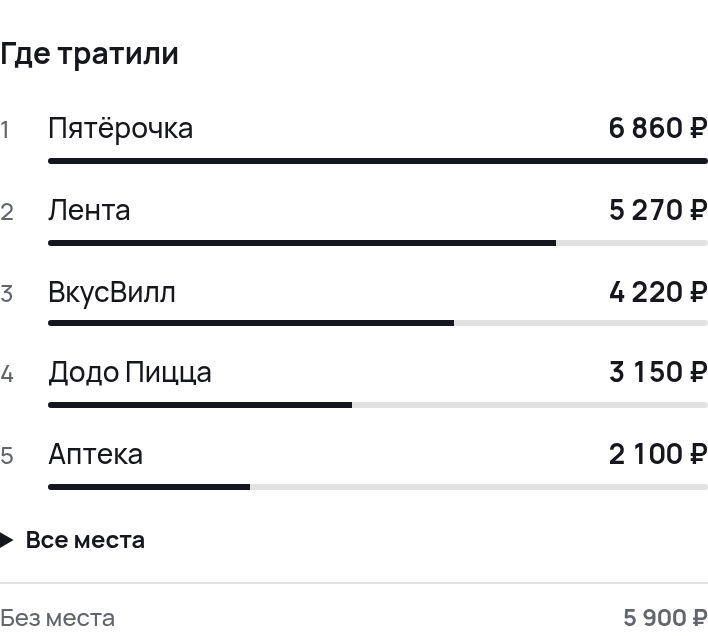
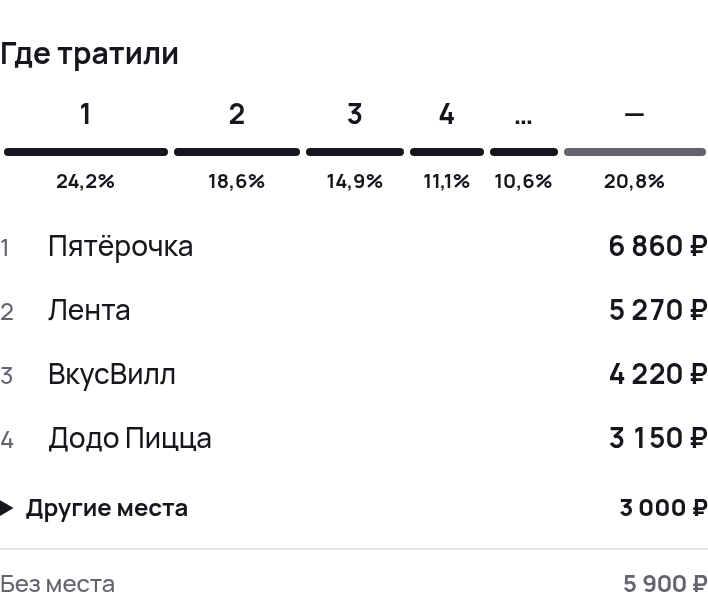
docs: show monthly spending forecast and matching shares (#267)

diff --git a/design/approved/267/screens.html b/design/approved/267/screens.html
@@ -11,38 +11,37 @@
   section{padding:16px 0;border-bottom:1px solid var(--divider)}section:last-child{border-bottom:none;padding-bottom:0}
   .pace svg{display:block;width:100%;height:auto;fill:var(--ink)}.grid,.trend{fill:none;stroke:var(--divider)}
   .pace svg text{fill:var(--muted);font-size:10px}.trend{stroke:var(--ink);stroke-width:2.5;stroke-linecap:round;stroke-linejoin:round}
-  .shares{display:flex}.share{display:flex;flex-direction:column;align-items:center;min-width:0;gap:5px}
-  .share b{font-size:clamp(8px,2.45vw,10px)}.icon{font-size:16px}
+  .estimate{display:flex;justify-content:space-between;align-items:baseline;gap:8px;margin:0 0 8px;color:var(--muted);font-size:12px}
+  .estimate b{color:var(--ink);white-space:nowrap;font-size:15px}
+  .forecast{fill:none;stroke:var(--muted);stroke-width:2;stroke-dasharray:4 4;stroke-linecap:round}
+  .cutoff{stroke:var(--divider);stroke-dasharray:2 3}.estimate-dot{fill:var(--surface);stroke:var(--muted);stroke-width:1.6}
+  .shares{display:flex;margin-bottom:10px}.share{display:flex;flex-direction:column;align-items:center;min-width:0;gap:5px}
+  .share b{font-size:clamp(8px,2.45vw,10px);white-space:nowrap}.mark{font-size:14px;font-weight:700;min-height:22px}
   .segment{display:block;width:calc(100% - 3px);height:4px;background:var(--ink);border-radius:2px}
-  .ranking{padding:0;margin:0;list-style:none}.place{padding:7px 0 6px}
-  .place-text{display:grid;grid-template-columns:17px minmax(0,1fr) auto;gap:7px;align-items:baseline}
-  .place-text b,.unassigned b{font-variant-numeric:tabular-nums;white-space:nowrap}.store{overflow:hidden;text-overflow:ellipsis;white-space:nowrap}
-  .index{font-size:12px}.bar{background:var(--divider);height:3px;margin:5px 0 0 24px;border-radius:2px;overflow:hidden}
-  .bar span{height:100%;display:block;background:var(--ink)}
-  details{margin-top:5px}summary{padding:6px 0;cursor:pointer;font-weight:700;font-size:12px}
+  .bin-unassigned .segment{background:var(--muted)}
+  .stats{padding:0;margin:0;list-style:none}.stat{padding:6px 0;display:grid;grid-template-columns:17px minmax(0,1fr) auto;gap:7px;align-items:baseline}
+  .stat b,.unassigned b{font-variant-numeric:tabular-nums;white-space:nowrap}.stat-title{overflow:hidden;text-overflow:ellipsis;white-space:nowrap}
+  .index{font-size:12px}details{margin-top:5px}summary{padding:6px 0;cursor:pointer;font-weight:700;font-size:12px}
+  summary b{float:right}
   .unassigned{display:flex;justify-content:space-between;gap:8px;margin-top:6px;padding-top:9px;border-top:1px solid var(--divider);font-size:12px}
   .empty{margin-bottom:13px;font-size:13px}.small{max-width:320px;margin-top:0}
 </style><main>
 <div class="screen" id="overview"><div class="month"><span aria-hidden="true">‹</span><h1>Ноябрь 2026</h1><span aria-hidden="true">›</span></div>
-<div class="total"><p>Расходы · 1–19 ноября</p><h2>28 400 ₽</h2></div><section class="pace"><h3>Темп расходов</h3>
-    <svg viewBox="0 0 356 132" role="img" aria-label="Расходы с 1 по 19 ноября выросли до 28 400 рублей">
-      <path d="M46 17H336 M46 61.5H336 M46 106H336" class="grid"/>
-      <text x="0" y="20">30 тыс.</text><text x="0" y="64.5">15 тыс.</text><text x="0" y="109">0 ₽</text>
-      <polyline points="46.00,103.33 62.10,100.07 78.20,99.18 94.30,96.80 110.40,89.39 126.50,87.31 142.60,83.75 158.70,83.75 174.80,80.04 190.90,74.70 207.00,73.22 223.10,48.30 239.20,47.11 255.30,44.15 271.40,37.92 287.50,35.54 303.60,29.61 319.70,24.86 335.80,21.75" class="trend"/>
-      <circle cx="335.80" cy="21.75" r="3.25"/><text x="46.00" y="127" text-anchor="start">1 ноя</text><text x="142.60" y="127" text-anchor="middle">7</text><text x="239.20" y="127" text-anchor="middle">13</text><text x="335.80" y="127" text-anchor="end">19 ноя</text>
-    </svg></section><section><h3>По категориям</h3><div class="shares"><div class="share" style="flex:12400" aria-label="Продукты, 43,7%"><span class="icon">🛒</span><span class="segment"></span><b>43,7%</b></div><div class="share" style="flex:6400" aria-label="Транспорт, 22,5%"><span class="icon">🚕</span><span class="segment"></span><b>22,5%</b></div><div class="share" style="flex:4200" aria-label="Кафе, 14,8%"><span class="icon">☕</span><span class="segment"></span><b>14,8%</b></div><div class="share" style="flex:3500" aria-label="Дом, 12,3%"><span class="icon">🏠</span><span class="segment"></span><b>12,3%</b></div><div class="share" style="flex:1900" aria-label="Прочее, 6,7%"><span class="icon">…</span><span class="segment"></span><b>6,7%</b></div></div></section><section class="places"><h3>Где тратили</h3><ol class="ranking"><li class="place">
-      <div class="place-text"><span class="index">1</span><span class="store">Пятёрочка</span><b>6 860 ₽</b></div>
-      <div class="bar" aria-hidden="true"><span style="width:100.000%"></span></div></li><li class="place">
-      <div class="place-text"><span class="index">2</span><span class="store">Лента</span><b>5 270 ₽</b></div>
-      <div class="bar" aria-hidden="true"><span style="width:76.822%"></span></div></li><li class="place">
-      <div class="place-text"><span class="index">3</span><span class="store">ВкусВилл</span><b>4 220 ₽</b></div>
-      <div class="bar" aria-hidden="true"><span style="width:61.516%"></span></div></li><li class="place">
-      <div class="place-text"><span class="index">4</span><span class="store">Додо Пицца</span><b>3 150 ₽</b></div>
-      <div class="bar" aria-hidden="true"><span style="width:45.918%"></span></div></li><li class="place">
-      <div class="place-text"><span class="index">5</span><span class="store">Аптека</span><b>2 100 ₽</b></div>
-      <div class="bar" aria-hidden="true"><span style="width:30.612%"></span></div></li></ol><details><summary>Все места</summary><ol class="ranking" start="6"><li class="place">
-      <div class="place-text"><span class="index">6</span><span class="store">Кофейня</span><b>900 ₽</b></div>
-      <div class="bar" aria-hidden="true"><span style="width:13.120%"></span></div></li></ol></details>
+<div class="total"><p>Расходы · 1–19 ноября</p><h2>28 400 ₽</h2></div><section class="pace" data-days="30" data-actual-days="19"><h3>Темп расходов</h3><div class="estimate"><span>К 30 ноя при текущем темпе</span><b>≈ 44 800 ₽</b></div>
+    <svg viewBox="0 0 356 141" role="img" aria-label="С 1 по 19 число потрачено 28 400 ₽. Прогноз на 30 число — около 44 800 ₽.">
+      <path d="M46 114H334 M46 67H334 M46 20H334" class="grid"/><text x="0" y="117">0 ₽</text><text x="0" y="70">25 тыс.</text><text x="0" y="23">50 тыс.</text><line x1="224.76" y1="60.61" x2="224.76" y2="114" class="cutoff"/>
+        <line x1="224.76" y1="60.61" x2="334.00" y2="29.70" class="forecast"/>
+        <circle cx="334.00" cy="29.70" r="3" class="estimate-dot"/>
+      <polyline points="46.00,112.31 55.93,110.24 65.86,109.68 75.79,108.17 85.72,103.47 95.66,102.16 105.59,99.90 115.52,99.90 125.45,97.55 135.38,94.17 145.31,93.23 155.24,77.43 165.17,76.68 175.10,74.80 185.03,70.85 194.97,69.35 204.90,65.59 214.83,62.58 224.76,60.61" class="trend"/>
+      <circle cx="224.76" cy="60.61" r="3.25" class="actual-dot"/><text x="46.00" y="134" text-anchor="start">1 ноя</text><text x="135.38" y="134" text-anchor="middle">10</text><text x="224.76" y="134" text-anchor="middle">19</text><text x="334.00" y="134" text-anchor="end">30 ноя</text>
+    </svg></section><section class="categories"><h3>По категориям</h3><div class="shares" aria-label="Доли расходов по категориям"><div class="share" style="flex:12400" aria-label="Продукты, 43,7%"><span class="mark">🛒</span><span class="segment"></span><b>43,7%</b></div><div class="share" style="flex:6400" aria-label="Транспорт, 22,5%"><span class="mark">🚕</span><span class="segment"></span><b>22,5%</b></div><div class="share" style="flex:4200" aria-label="Кафе, 14,8%"><span class="mark">☕</span><span class="segment"></span><b>14,8%</b></div><div class="share" style="flex:3500" aria-label="Дом, 12,3%"><span class="mark">🏠</span><span class="segment"></span><b>12,3%</b></div><div class="share" style="flex:1900" aria-label="Прочее, 6,7%"><span class="mark">…</span><span class="segment"></span><b>6,7%</b></div></div>
+      <details><summary>Все категории</summary><ul class="stats"><li class="stat"><span class="index">🛒</span><span class="stat-title">Продукты</span><b>12 400 ₽</b></li><li class="stat"><span class="index">🚕</span><span class="stat-title">Транспорт</span><b>6 400 ₽</b></li><li class="stat"><span class="index">☕</span><span class="stat-title">Кафе</span><b>4 200 ₽</b></li><li class="stat"><span class="index">🏠</span><span class="stat-title">Дом</span><b>3 500 ₽</b></li><li class="stat"><span class="index">…</span><span class="stat-title">Прочее</span><b>1 900 ₽</b></li></ul></details></section><section class="places"><h3>Где тратили</h3><div class="shares" aria-label="Доли расходов по местам"><div class="share" style="flex:6860" aria-label="Пятёрочка, 24,2%"><span class="mark">1</span><span class="segment"></span><b>24,2%</b></div><div class="share" style="flex:5270" aria-label="Лента, 18,6%"><span class="mark">2</span><span class="segment"></span><b>18,6%</b></div><div class="share" style="flex:4220" aria-label="ВкусВилл, 14,9%"><span class="mark">3</span><span class="segment"></span><b>14,9%</b></div><div class="share" style="flex:3150" aria-label="Додо Пицца, 11,1%"><span class="mark">4</span><span class="segment"></span><b>11,1%</b></div><div class="share" style="flex:3000" aria-label="Другие места, 10,6%"><span class="mark">…</span><span class="segment"></span><b>10,6%</b></div><div class="share bin-unassigned" style="flex:5900" aria-label="Без места, 20,8%"><span class="mark">—</span><span class="segment"></span><b>20,8%</b></div></div><ol class="stats ranking"><li class="stat"><span class="index">1</span><span class="stat-title">Пятёрочка</span><b>6 860 ₽</b></li><li class="stat"><span class="index">2</span><span class="stat-title">Лента</span><b>5 270 ₽</b></li><li class="stat"><span class="index">3</span><span class="stat-title">ВкусВилл</span><b>4 220 ₽</b></li><li class="stat"><span class="index">4</span><span class="stat-title">Додо Пицца</span><b>3 150 ₽</b></li></ol><details><summary><span>Другие места</span><b>3 000 ₽</b></summary><ol class="stats ranking" start="5"><li class="stat"><span class="index">5</span><span class="stat-title">Аптека</span><b>2 100 ₽</b></li><li class="stat"><span class="index">6</span><span class="stat-title">Кофейня</span><b>900 ₽</b></li></ol></details>
       <div class="unassigned"><span>Без места</span><b>5 900 ₽</b></div></section></div>
-<div class="screen small" id="missing"><section class="places"><h3>Где тратили</h3><p class="empty">Укажи место в расходе, чтобы увидеть его здесь.</p>
-      <div class="unassigned"><span>Без места</span><b>28 400 ₽</b></div></section></div></main></html>
+<div class="screen small" id="missing"><section class="places"><h3>Где тратили</h3><div class="shares" aria-label="Доли расходов по местам"><div class="share bin-unassigned" style="flex:28400" aria-label="Без места, 100,0%"><span class="mark">—</span><span class="segment"></span><b>100,0%</b></div></div><p class="empty">Укажи место в расходе, чтобы увидеть его здесь.</p>
+      <div class="unassigned"><span>Без места</span><b>28 400 ₽</b></div></section></div>
+<div class="screen small" id="completed"><section class="pace" data-days="31" data-actual-days="31"><h3>Темп расходов</h3>
+    <svg viewBox="0 0 356 141" role="img" aria-label="С 1 по 31 число потрачено 36 200 ₽.">
+      <path d="M46 114H334 M46 67H334 M46 20H334" class="grid"/><text x="0" y="117">0 ₽</text><text x="0" y="70">20 тыс.</text><text x="0" y="23">40 тыс.</text>
+      <polyline points="46.00,111.89 55.60,109.30 65.20,108.59 74.80,106.72 84.40,100.84 94.00,99.19 103.60,96.38 113.20,96.38 122.80,93.44 132.40,89.21 142.00,88.03 151.60,68.29 161.20,67.35 170.80,65.00 180.40,60.07 190.00,58.19 199.60,53.49 209.20,49.73 218.80,47.26 228.40,45.73 238.00,44.20 247.60,42.68 257.20,41.15 266.80,39.62 276.40,38.09 286.00,36.57 295.60,35.04 305.20,33.51 314.80,31.98 324.40,30.46 334.00,28.93" class="trend"/>
+      <circle cx="334.00" cy="28.93" r="3.25" class="actual-dot"/><text x="46.00" y="134" text-anchor="start">1 окт</text><text x="132.40" y="134" text-anchor="middle">10</text><text x="334.00" y="134" text-anchor="end">31 окт</text>
+    </svg></section></div></main></html>

diff --git a/design/approved/267/render.js b/design/approved/267/render.js
@@ -15,18 +15,44 @@ const path = require('node:path');
     await page.setContent(fs.readFileSync(path.join(__dirname, 'screens.html'), 'utf8'));
     await page.evaluate(() => document.fonts.ready);
     const overview = page.locator('#overview');
-    const top = overview.locator('.ranking').first();
-    assert.equal(await top.locator('li').count(), 5);
-    assert.equal(await overview.locator('.share').count(), 5);
+    const top = overview.locator('.places .ranking').first();
+    assert.equal(await top.locator('li').count(), 4);
+    assert.equal(await overview.locator('.categories .share').count(), 5);
+    assert.equal(await overview.locator('.places .share').count(), 6);
     assert.match(await overview.locator('.unassigned').innerText(), /5\s*900\s*₽/);
-    await overview.locator('summary').click();
+    const pace = overview.locator('.pace');
+    assert.equal(await pace.getAttribute('data-days'), '30');
+    assert.equal(await pace.getAttribute('data-actual-days'), '19');
+    assert.match(await pace.locator('.estimate').innerText(), /44\s*800\s*₽/);
+    const coordinates = await pace.evaluate(panel => {
+      const line = panel.querySelector('.trend');
+      const end = line.points.getItem(line.points.numberOfItems - 1);
+      const forecast = panel.querySelector('.forecast');
+      return { from: Number(forecast.getAttribute('x1')), to: Number(forecast.getAttribute('x2')),
+        actualX: end.x, actualDays: line.points.numberOfItems, dash: getComputedStyle(forecast).strokeDasharray };
+    });
+    assert.equal(coordinates.actualDays, 19);
+    assert(Math.abs(coordinates.from - coordinates.actualX) < 0.01);
+    assert.equal(coordinates.to, 334);
+    assert.notEqual(coordinates.dash, 'none');
+    const completed = page.locator('#completed .pace');
+    assert.equal(await completed.getAttribute('data-days'), '31');
+    assert.equal(await completed.getAttribute('data-actual-days'), '31');
+    assert.equal(await completed.locator('.forecast').count(), 0);
+    const extra = overview.locator('.places summary');
+    await extra.click();
     assert(await overview.getByText('Кофейня').isVisible());
-    await overview.locator('summary').click();
+    await extra.click();
     assert(!(await overview.getByText('Кофейня').isVisible()));
     await overview.screenshot({ path: path.join(__dirname, 'month.png') });
     await overview.locator('.places').screenshot({ path: path.join(__dirname, 'places.png') });
     await page.setViewportSize({ width: 320, height: 1050 });
     assert(await page.evaluate(() => document.documentElement.scrollWidth <= innerWidth));
+    for (const line of await overview.locator('.shares').all()) {
+      const overlaps = await line.locator('.share b').evaluateAll(labels => labels.some((label, i) =>
+        i > 0 && labels[i - 1].getBoundingClientRect().right > label.getBoundingClientRect().left));
+      assert.equal(overlaps, false, 'Подписи долей не должны перекрываться на 320 px');
+    }
     assert.match(await page.locator('#missing .unassigned').innerText(), /28\s*400\s*₽/);
     await page.locator('#missing').screenshot({ path: path.join(__dirname, 'without-places.png') });
     assert.deepEqual(errors, []);

diff --git a/design/approved/267/screens.py b/design/approved/267/screens.py
@@ -1,6 +1,8 @@
 """Макет #267. Запуск из корня: python3 design/approved/267/screens.py."""
+from calendar import monthrange
 from html import escape
 from itertools import accumulate
+from math import ceil
 from pathlib import Path
 
 HERE = Path(__file__).resolve().parent
@@ -21,43 +23,80 @@ def money(amount):
     return f'{amount:,}'.replace(',', '\u00a0') + '\u00a0₽'
 
 
-def pace():
-    x = lambda day: 46 + (day - 1) * 16.1
-    y = lambda value: 106 - 89 * value / 30000
-    coords = ' '.join(f'{x(day):.2f},{y(value):.2f}' for day, value in enumerate(accumulate(daily), start=1))
-    ticks = ''.join(f'<text x="{x(day):.2f}" y="127" text-anchor="{align}">{label}</text>'
-                    for day, label, align in [(1, '1 ноя', 'start'), (7, '7', 'middle'), (13, '13', 'middle'), (19, '19 ноя', 'end')])
-    return f'''<section class="pace"><h3>Темп расходов</h3>
-    <svg viewBox="0 0 356 132" role="img" aria-label="Расходы с 1 по 19 ноября выросли до 28 400 рублей">
-      <path d="M46 17H336 M46 61.5H336 M46 106H336" class="grid"/>
-      <text x="0" y="20">30 тыс.</text><text x="0" y="64.5">15 тыс.</text><text x="0" y="109">0 ₽</text>
+def pace(amounts, year, month, month_short):
+    last_day = monthrange(year, month)[1]
+    as_of = len(amounts)
+    assert 1 <= as_of <= last_day
+    actual = sum(amounts)
+    estimate = actual * last_day / as_of if actual and as_of < last_day else None
+    ceiling = max(1000, ceil((estimate if estimate is not None else actual) / 10000) * 10000)
+
+    def x(day):
+        return 46 + (day - 1) * 288 / (last_day - 1)
+
+    def y(value):
+        return 114 - 94 * value / ceiling
+
+    coords = ' '.join(f'{x(day):.2f},{y(value):.2f}' for day, value in enumerate(accumulate(amounts), start=1))
+    axis = [0, ceiling // 2, ceiling]
+    grid = ' '.join(f'M46 {y(value):g}H334' for value in axis)
+    value_ticks = ''.join(f'<text x="0" y="{y(value)+3:g}">{value/1000:g} тыс.</text>' if value else
+                          '<text x="0" y="117">0 ₽</text>' for value in axis)
+    day_ticks = {1: ('1 ' + month_short, 'start'), 10: ('10', 'middle'), last_day: (str(last_day) + ' ' + month_short, 'end')}
+    if estimate is not None and 4 <= as_of <= last_day - 3:
+        day_ticks = {d: tick for d, tick in day_ticks.items() if d in (1, last_day) or abs(d - as_of) >= 4}
+        day_ticks[as_of] = (str(as_of), 'middle')
+    ticks = ''.join(f'<text x="{x(day):.2f}" y="134" text-anchor="{align}">{label}</text>'
+                    for day, (label, align) in sorted(day_ticks.items()))
+    forecast = ''
+    headline = ''
+    description = f'С 1 по {as_of} число потрачено {money(actual)}.'
+    if estimate is not None:
+        projected = money(round(estimate / 100) * 100)
+        description += f' Прогноз на {last_day} число — около {projected}.'
+        headline = f'<div class="estimate"><span>К {last_day} {month_short} при текущем темпе</span><b>≈ {projected}</b></div>'
+        forecast = f'''<line x1="{x(as_of):.2f}" y1="{y(actual):.2f}" x2="{x(as_of):.2f}" y2="114" class="cutoff"/>
+        <line x1="{x(as_of):.2f}" y1="{y(actual):.2f}" x2="{x(last_day):.2f}" y2="{y(estimate):.2f}" class="forecast"/>
+        <circle cx="{x(last_day):.2f}" cy="{y(estimate):.2f}" r="3" class="estimate-dot"/>'''
+    return f'''<section class="pace" data-days="{last_day}" data-actual-days="{as_of}"><h3>Темп расходов</h3>{headline}
+    <svg viewBox="0 0 356 141" role="img" aria-label="{description}">
+      <path d="{grid}" class="grid"/>{value_ticks}{forecast}
       <polyline points="{coords}" class="trend"/>
-      <circle cx="{x(19):.2f}" cy="{y(total):.2f}" r="3.25"/>{ticks}
+      <circle cx="{x(as_of):.2f}" cy="{y(actual):.2f}" r="3.25" class="actual-dot"/>{ticks}
     </svg></section>'''
 
 
+def share_line(items, label):
+    assert sum(amount for _, _, amount in items) == total
+    segments = []
+    for title, mark, amount in items:
+        pct = f'{100*amount/total:.1f}'.replace('.', ',') + '%'
+        cls = ' bin-unassigned' if title == 'Без места' else ''
+        segments.append(f'<div class="share{cls}" style="flex:{amount}" aria-label="{escape(title)}, {pct}"><span class="mark">{mark}</span><span class="segment"></span><b>{pct}</b></div>')
+    return f'<div class="shares" aria-label="{label}">' + ''.join(segments) + '</div>'
+
+
+def stat_row(mark, title, amount):
+    return f'<li class="stat"><span class="index">{mark}</span><span class="stat-title">{escape(title)}</span><b>{money(amount)}</b></li>'
+
+
 def shares():
-    items = []
-    for title, icon, amount in categories:
-        fraction = amount / total
-        label = f'{100*fraction:.1f}'.replace('.', ',') + '%'
-        items.append(f'<div class="share" style="flex:{amount}" aria-label="{escape(title)}, {label}"><span class="icon">{icon}</span><span class="segment"></span><b>{label}</b></div>')
-    return '<section><h3>По категориям</h3><div class="shares">' + ''.join(items) + '</div></section>'
-
-
-def place_row(position, name, amount):
-    return f'''<li class="place">
-      <div class="place-text"><span class="index">{position}</span><span class="store">{escape(name)}</span><b>{money(amount)}</b></div>
-      <div class="bar" aria-hidden="true"><span style="width:{100*amount/places[0][1]:.3f}%"></span></div></li>'''
+    rows = ''.join(stat_row(mark, title, amount) for title, mark, amount in categories)
+    return f'''<section class="categories"><h3>По категориям</h3>{share_line(categories, 'Доли расходов по категориям')}
+      <details><summary>Все категории</summary><ul class="stats">{rows}</ul></details></section>'''
 
 
 def ranking(has_places=True):
     if has_places:
-        top = ''.join(place_row(i, *p) for i, p in enumerate(places[:5], start=1))
-        extra = ''.join(place_row(i, *p) for i, p in enumerate(places[5:], start=6))
-        content = f'<ol class="ranking">{top}</ol><details><summary>Все места</summary><ol class="ranking" start="6">{extra}</ol></details>'
+        first = [(name, str(i), amount) for i, (name, amount) in enumerate(places[:4], start=1)]
+        other = sum(amount for _, amount in places[4:])
+        line = share_line([*first, ('Другие места', '…', other), ('Без места', '—', unassigned)], 'Доли расходов по местам')
+        top = ''.join(stat_row(mark, name, amount) for name, mark, amount in first)
+        extra = ''.join(stat_row(i, *p) for i, p in enumerate(places[4:], start=5))
+        content = f'{line}<ol class="stats ranking">{top}</ol><details><summary><span>Другие места</span><b>{money(other)}</b></summary><ol class="stats ranking" start="5">{extra}</ol></details>'
     else:
-        content = '<p class="empty">Укажи место в расходе, чтобы увидеть его здесь.</p>'
+        line = share_line([('Без места', '—', total)], 'Доли расходов по местам')
+        content = line + '<p class="empty">Укажи место в расходе, чтобы увидеть его здесь.</p>'
     return f'''<section class="places"><h3>Где тратили</h3>{content}
       <div class="unassigned"><span>Без места</span><b>{money(unassigned if has_places else total)}</b></div></section>'''
 
@@ -74,21 +113,25 @@ CSS = design['fonts'] + f":root{{--ink:{color('textPrimary')};--muted:{color('te
   section{padding:16px 0;border-bottom:1px solid var(--divider)}section:last-child{border-bottom:none;padding-bottom:0}
   .pace svg{display:block;width:100%;height:auto;fill:var(--ink)}.grid,.trend{fill:none;stroke:var(--divider)}
   .pace svg text{fill:var(--muted);font-size:10px}.trend{stroke:var(--ink);stroke-width:2.5;stroke-linecap:round;stroke-linejoin:round}
-  .shares{display:flex}.share{display:flex;flex-direction:column;align-items:center;min-width:0;gap:5px}
-  .share b{font-size:clamp(8px,2.45vw,10px)}.icon{font-size:16px}
+  .estimate{display:flex;justify-content:space-between;align-items:baseline;gap:8px;margin:0 0 8px;color:var(--muted);font-size:12px}
+  .estimate b{color:var(--ink);white-space:nowrap;font-size:15px}
+  .forecast{fill:none;stroke:var(--muted);stroke-width:2;stroke-dasharray:4 4;stroke-linecap:round}
+  .cutoff{stroke:var(--divider);stroke-dasharray:2 3}.estimate-dot{fill:var(--surface);stroke:var(--muted);stroke-width:1.6}
+  .shares{display:flex;margin-bottom:10px}.share{display:flex;flex-direction:column;align-items:center;min-width:0;gap:5px}
+  .share b{font-size:clamp(8px,2.45vw,10px);white-space:nowrap}.mark{font-size:14px;font-weight:700;min-height:22px}
   .segment{display:block;width:calc(100% - 3px);height:4px;background:var(--ink);border-radius:2px}
-  .ranking{padding:0;margin:0;list-style:none}.place{padding:7px 0 6px}
-  .place-text{display:grid;grid-template-columns:17px minmax(0,1fr) auto;gap:7px;align-items:baseline}
-  .place-text b,.unassigned b{font-variant-numeric:tabular-nums;white-space:nowrap}.store{overflow:hidden;text-overflow:ellipsis;white-space:nowrap}
-  .index{font-size:12px}.bar{background:var(--divider);height:3px;margin:5px 0 0 24px;border-radius:2px;overflow:hidden}
-  .bar span{height:100%;display:block;background:var(--ink)}
-  details{margin-top:5px}summary{padding:6px 0;cursor:pointer;font-weight:700;font-size:12px}
+  .bin-unassigned .segment{background:var(--muted)}
+  .stats{padding:0;margin:0;list-style:none}.stat{padding:6px 0;display:grid;grid-template-columns:17px minmax(0,1fr) auto;gap:7px;align-items:baseline}
+  .stat b,.unassigned b{font-variant-numeric:tabular-nums;white-space:nowrap}.stat-title{overflow:hidden;text-overflow:ellipsis;white-space:nowrap}
+  .index{font-size:12px}details{margin-top:5px}summary{padding:6px 0;cursor:pointer;font-weight:700;font-size:12px}
+  summary b{float:right}
   .unassigned{display:flex;justify-content:space-between;gap:8px;margin-top:6px;padding-top:9px;border-top:1px solid var(--divider);font-size:12px}
   .empty{margin-bottom:13px;font-size:13px}.small{max-width:320px;margin-top:0}
 '''
 document = f'''<!doctype html><html lang="ru"><meta charset="utf-8"><meta name="viewport" content="width=device-width, initial-scale=1"><title>Аналитика месяца · #267</title>
 <style>{CSS}</style><main>
 <div class="screen" id="overview"><div class="month"><span aria-hidden="true">‹</span><h1>Ноябрь 2026</h1><span aria-hidden="true">›</span></div>
-<div class="total"><p>Расходы · 1–19 ноября</p><h2>{money(total)}</h2></div>{pace()}{shares()}{ranking()}</div>
-<div class="screen small" id="missing">{ranking(False)}</div></main></html>'''
+<div class="total"><p>Расходы · 1–19 ноября</p><h2>{money(total)}</h2></div>{pace(daily, 2026, 11, 'ноя')}{shares()}{ranking()}</div>
+<div class="screen small" id="missing">{ranking(False)}</div>
+<div class="screen small" id="completed">{pace([*daily, *([650] * 12)], 2026, 10, 'окт')}</div></main></html>'''
 (HERE / 'screens.html').write_text(document)

diff --git a/design/approved/267/requirements.md b/design/approved/267/requirements.md
@@ -1,9 +1,11 @@
-Исполнитель: Codex. В работе — макет аналитики за месяц.
+Исполнитель Codex. В работе, макет аналитики за месяц.
 
-Решения от 19.11.2026: выбираем накопительный «Темп расходов», вариант А для долей (одна линия на 100% с иконками) и рейтинг магазинов. Новые блоки строятся на выбранном месяце и работают при первой записи расходов.
+Решения от 19.11.2026. Выбраны «Темп расходов», вариант А для долей с одной линией на 100% и рейтинг магазинов. Новые блоки используют только выбранный месяц. Расходы из корзины, доходы, переводы и корректировки исключаются.
 
-1. «Темп расходов» — одна линия накопленной суммы по дням выбранного месяца, для текущего месяца до сегодняшнего дня включительно.
-2. «По категориям» — одна нейтральная линия на 100%, длина отрезка соответствует доле, значок берётся из категории, под значком процент. Макет показывает четыре крупнейшие категории и «Прочее». Суммы в списке дают точные значения.
-3. «Где тратили» — рейтинг по общей сумме расходов с полем «Место». Включаются магазины и другие места, указанные руками. Сортировка от большей суммы к меньшей. В макете видна первая пятёрка, полный список можно раскрыть. Сумма «Без места» показана отдельно и не участвует в рейтинге. Если мест нет, показывается подсказка и сумма без места.
+1. Фиксированная шкала «Темпа расходов» от первого до последнего календарного дня выбранного месяца. Сплошная линия накопленных расходов заканчивается на сегодняшней дате, если месяц ещё идёт. Пунктир от последней точки факта до конца месяца показывает прогноз. Завершённый месяц занимает всю шкалу фактом.
+2. Предложенный расчёт прогноза. К потраченному добавляется средняя сумма расходов за прошедший календарный день, умноженная на оставшееся число дней. Дни с нулевыми расходами входят в среднее. В макете 28 400 ₽ за 19 дней превращаются примерно в 44 800 ₽ к 30 ноября. Прогноз помечается «≈», без расходов он скрыт. Оценка не прибавляется к факту, категориям или рейтингу.
+3. «По категориям» и «Где тратили» используют одинаковую нейтральную сегментированную полосу. Длина сегмента показывает долю всех фактических расходов за выбранный период. Сверху значок категории или номер места, снизу процент. Список даёт названия и точные суммы.
+4. Для рейтинга складываются расходы с одинаковым местом и сортируются по убыванию. В макете четыре крупнейших места подписаны числами, остальные объединены в раскрываемые «Другие места». «Без места» имеет собственный сегмент и отдельную сумму без позиции в рейтинге. Если у всех расходов место пустое, показывается один сегмент 100% и подсказка.
+5. В макете сегменты без собственной подписи собраны в «Прочее» или «Другие места». Группировка нужна для читаемости на телефоне. Полный список сохраняет детальные суммы.
 
-Новые блоки используют расходы выбранного периода, исключая удалённые операции, доходы, переводы и корректировки. Предложенные детали интерфейса ждут согласования. Рабочая ветка codex/finance-month-insights от main 5992db2. После показа макета для Android-реализации нужна отдельная команда «Делай код».
+Рабочая ветка codex/finance-month-insights от main 5992db2. Детали оформления и формула прогноза на согласовании. После показа макета для Android-реализации нужна отдельная команда «Делай код».

diff --git a/design/approved/267/README.md b/design/approved/267/README.md
@@ -1,12 +1,12 @@
 # #267 — аналитика внутри месяца
 
-19.11.2026. Codex. Выбраны три блока: темп расходов, линия долей с иконками (вариант А) и рейтинг магазинов. На согласовании — их компоновка и детали рейтинга. [Требования](requirements.md) · [Issue #267](https://github.com/prostovasei/simpe-tasks-app/issues/267).
+19.11.2026. Codex. Три блока по последнему уточнению PM. Темп расходов со шкалой на целый месяц и пунктирным прогнозом, одинаковые сегментированные полосы для категорий и мест. На согласовании формула и детали отображения. [Требования](requirements.md) · [Issue #267](https://github.com/prostovasei/simpe-tasks-app/issues/267).
 
 - [Экран месяца](month.png) с тремя блоками на вымышленных суммах.
-- [Рейтинг крупнее](places.png). Пять мест по сумме, «Все места» раскрывает остальные, «Без места» отдельно.
-- [Операции без указанного места](without-places.png). Пустой рейтинг и общая сумма без места.
+- [Рейтинг крупнее](places.png). Четыре места по сумме, «Другие места» раскрывает остальные. «Без места» остаётся отдельной суммой.
+- [Операции без указанного места](without-places.png). Один сегмент 100%, подсказка и общая сумма без места.
 - [HTML](screens.html) · [генератор](screens.py) · [рендер](render.js).
 
-Фрагмент будущей вкладки «Аналитика» под переключателем месяца. Manrope и нейтральные цвета из приложения. Категории распознаются по иконкам, доли сравниваются по длине отрезков. Для рейтинга полосы сравнивают суммы с первой строкой. Названия магазинов приведены для примера.
+Фрагмент будущей вкладки «Аналитика» под переключателем месяца. Manrope и нейтральные цвета из приложения. Категории распознаются по иконкам, доли сравниваются по длине отрезков. Полосы категорий и мест показывают доли от одной и той же общей суммы фактических расходов. В рейтинге позиции связывают отрезки с названиями. Пунктир продолжается от сегодняшней суммы до расчётной суммы на конец месяца. Названия магазинов приведены для примера.
 
-Воспроизведение из корня: `python3 design/approved/267/screens.py && node design/approved/267/render.js`. Сверены суммы и сортировка, раскрытие списка, пустой рейтинг и ширина 320 px. Это проверка макета. Для изменения Android-кода нужна команда «Делай код».
+Воспроизведение из корня: `python3 design/approved/267/screens.py && node design/approved/267/render.js`. Сверены суммы, положение точки факта и конца прогноза, прогноз 44 800 ₽, отсутствие прогноза в завершённом месяце, раскрытие списка и читаемость подписей на 320 px. Это проверка макета. Для изменения Android-кода нужна команда «Делай код».

diff --git a/design/README.md b/design/README.md
@@ -126,4 +126,4 @@ PM выбрал А для недели, предстоящих (приложен
 
 ## Аналитика расходов внутри месяца — #267
 
-[Макет и требования](approved/267/README.md) · [Экран месяца](approved/267/month.png) · [Рейтинг мест](approved/267/places.png). PM выбрал накопительный темп расходов, доли одной линией с иконками и рейтинг мест по сумме. Компоновка и детали рейтинга на согласовании.
+[Макет и требования](approved/267/README.md) · [Экран месяца](approved/267/month.png) · [Рейтинг мест](approved/267/places.png). Фиксированная шкала всего месяца, факт до сегодня и прогноз до последней даты. Категории и места показаны одинаковыми линиями долей. Компоновка и расчёт прогноза на согласовании.
